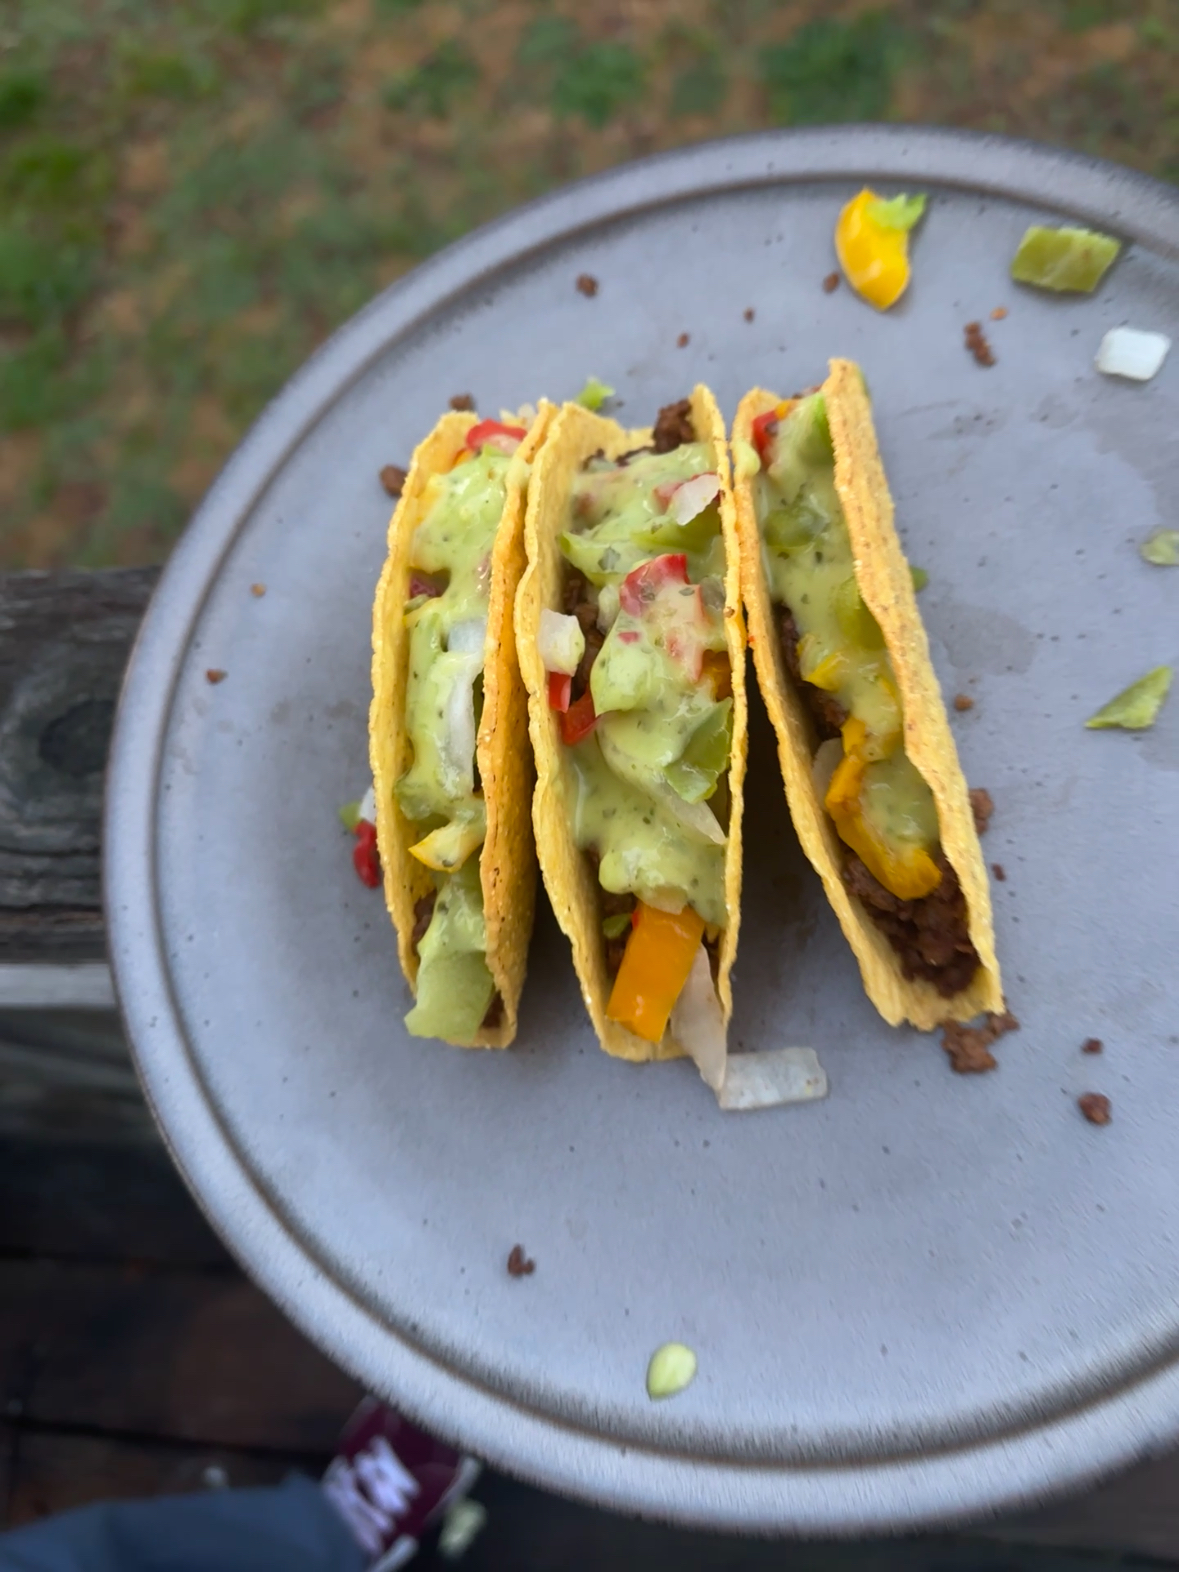
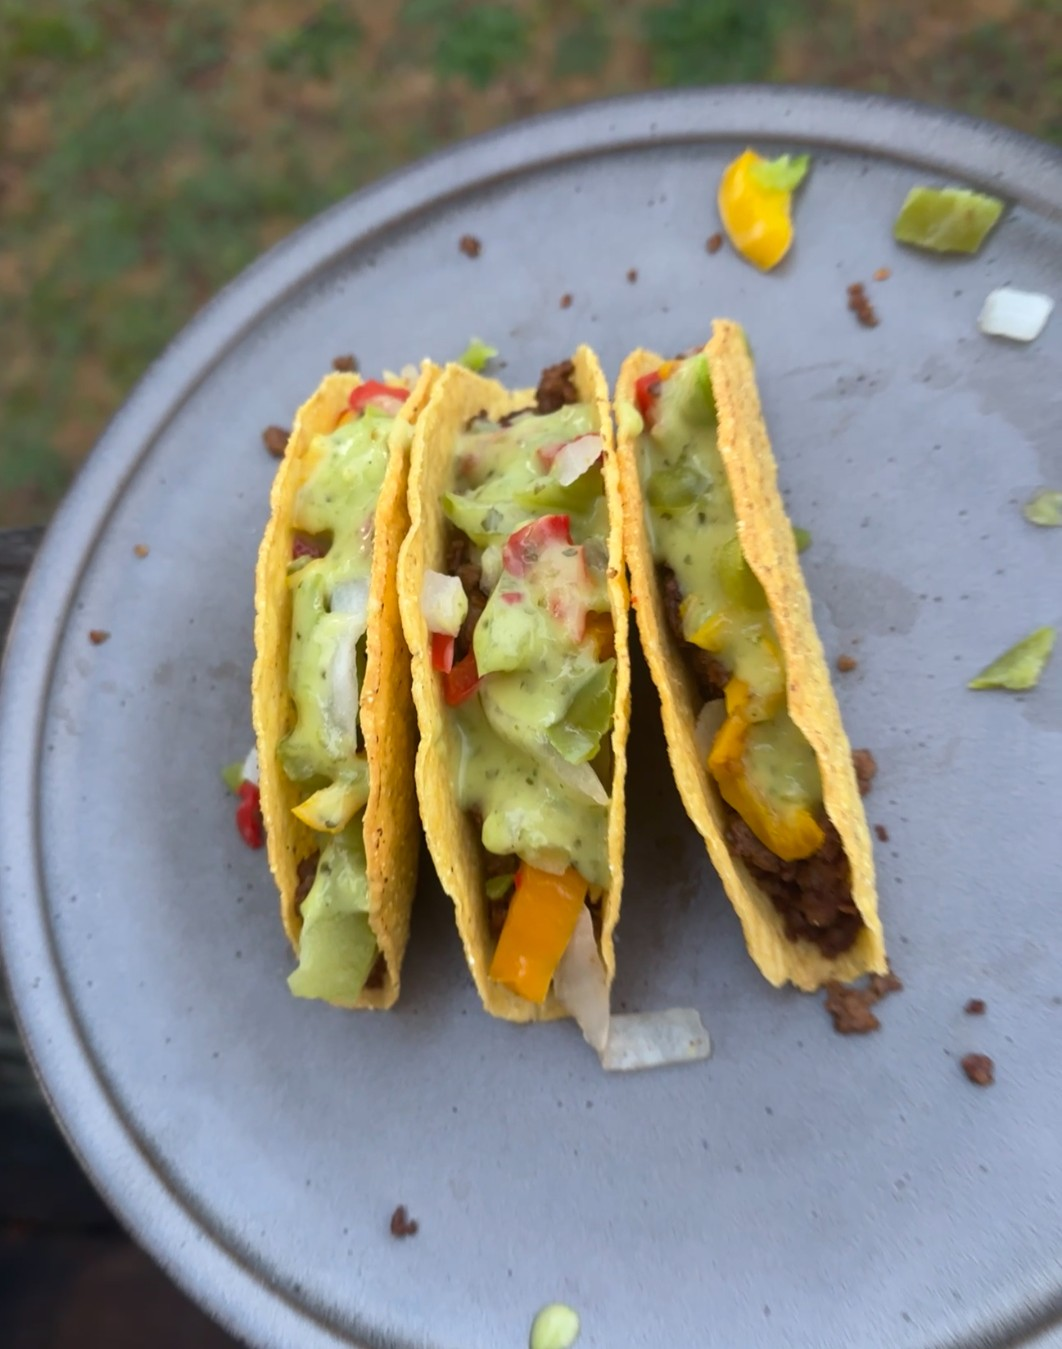
small visual touch-ups and mobile fixes

diff --git a/src/app/page.tsx b/src/app/page.tsx
@@ -50,7 +50,7 @@ export default function Home() {
               height={500}
               className="object-cover w-full h-full"
             />
-            <h1 className="absolute bottom-4 left-4 text-3xl text-green-700 font-semibold bg-white bg-opacity-80 px-2 py-1 rounded">
+            <h1 className="absolute bottom-4 left-4 text-4xl text-green-800 font-semibold bg-white/80 px-2 py-1 rounded">
               Eat Better.
             </h1>
           </div>
@@ -64,7 +64,7 @@ export default function Home() {
               height={500}
               className="object-cover w-full h-full"
             />
-            <h1 className="absolute bottom-4 left-4 text-3xl text-green-700 font-semibold bg-white bg-opacity-80 px-2 py-1 rounded">
+            <h1 className="absolute bottom-4 left-4 text-4xl text-green-800 font-semibold bg-white/80 px-2 py-1 rounded">
               Feel Better.
             </h1>
           </div>
@@ -78,7 +78,7 @@ export default function Home() {
               height={500}
               className="object-cover w-full h-full"
             />
-            <h1 className="absolute bottom-4 left-4 text-3xl text-green-700 font-semibold bg-white bg-opacity-80 px-2 py-1 rounded">
+            <h1 className="absolute bottom-4 left-4 text-4xl text-green-800 font-semibold bg-white/80 px-2 py-1 rounded">
               Thrive.
             </h1>
           </div>
@@ -86,7 +86,7 @@ export default function Home() {
       </div>
 
       
-      <section data-aos="fade-up" className="p-20 pb-0 pt-0 justify-center items-center z-10 flex flex-col space-x-2 w-full">
+      <section data-aos="zoom-in-up" className="p-20 pb-0 pt-0 justify-center items-center z-10 flex flex-col space-x-2 w-full">
         
         <div className="flex flex-col md:flex-row gap-6 items-center p-10 pt-0">
           <Image height="400" width="300" src="/images/kayla-headshot-unedited-shorter.jpg" alt="picture of Kayla" className="w-64 md:w-80 object-cover rounded h-auto"></Image>
@@ -112,37 +112,46 @@ export default function Home() {
       <section data-aos="fade-up" id="about" className="p-20 justify-center items-center z-10 text-black flex flex-col space-x-2 w-full bg-white">
         
         <div className="flex flex-col md:flex-row gap-10">
-        <div className="hidden grid grid-cols-3 items-center h-20 mt-5 w-80 max-w-7xl mx-auto">
-          <div className="relative flex justify-center h-20 w-auto">
-          <Image
-          src="/images/minglewood.jpg"
-          alt="Minglewood Logo"
-          fill
-          className="object-contain"
-          />
-          </div>
-          <div className="flex justify-center items-center h-full w-auto">
-          <Image
-          src="/images/x-1.png"
-          alt="X symbol"
-          width={28}
-          height={28}
-          className="h-7 w-auto"
-          />
-          </div>
-          <div className="relative flex justify-center h-20 w-auto">
-          <Image
-          src="/images/logo-black.png"
-          alt="Vegan Thrive logo"
-          fill
-          className="object-contain"
-          />
+        
+        <div className="flex w-full max-w-7xl mx-auto items-stretch flex-col md:flex-row">
+        <div data-aos="fade-up" data-aos-delay="100" className="p-6 md:w-180 flex-1 me-5 flex flex-col">
+        <div className="flex flex-row items-center w-full max-w-7xl mx-auto mb-5">
+          <h1 className="text-3xl border-b-3 border-green-900 border-radius-5 pb-1">
+            Nourish to Thrive
+          </h1>
+          <div className="hidden flex space-x-2 items-center h-20 ms-10">
+            <div className="relative flex justify-center w-auto h-16">
+              <Image
+                src="/images/minglewood.jpg"
+                alt="Minglewood Logo"
+                width={120}
+                height={60}
+                className="object-contain"
+              />
+            </div>
+            <div className="flex justify-center items-center h-full w-auto">
+              <Image
+                src="/images/x-1.png"
+                alt="X symbol"
+                width={28}
+                height={28}
+                className="h-5 w-auto"
+              />
+            </div>
+            <div className="relative flex justify-center w-auto h-16">
+              <Image
+                src="/images/logo-black.png"
+                alt="Vegan Thrive logo"
+                width={60}
+                height={60}
+                className="object-contain"
+              />
+            </div>
           </div>
         </div>
-        <div className="flex w-full max-w-7xl mx-auto">
-        <div data-aos="fade-up" data-aos-delay="100" className="p-6 w-180">
-          <h1 className="text-3xl border-b-3 border-green-900 border-radius-5 w-70 pb-1 mb-5">Nourish to Thrive</h1>
-            <p className="w-170 indent-8">Nourish to Thrive is a 4-week nutrition and wellness coaching program for vegans who want to eat better, feel better, and thrive. In the program, you will learn how to properly fuel and nourish your body and mind in a way that is simple and sustainable. You&rsquo;ll get 1:1 nutrition and wellness support from a certified nutrition coach and be a part of our supportive vegan community.</p>
+
+
+            <p className="indent-8">Nourish to Thrive is a 4-week nutrition and wellness coaching program for vegans who want to eat better, feel better, and thrive. In the program, you will learn how to properly fuel and nourish your body and mind in a way that is simple and sustainable. You&rsquo;ll get 1:1 nutrition and wellness support from a certified nutrition coach and be a part of our supportive vegan community.</p>
             
             <p data-aos="fade-up" data-aos-delay="100" className="mt-6">Nourish to Thrive is for you if you:</p>
             <ul data-aos="fade-up" data-aos-delay="100" className="list-disc pl-10 space-y-1 m-3">
@@ -173,13 +182,15 @@ export default function Home() {
               <a href="https://docs.google.com/forms/d/e/1FAIpQLSd-nv6yCFG0wFkOG7H-aTOyBsOG8z0XnAxCBGoqqoSwh6wS8A/viewform" className="cursor-pointer px-6 py-2 bg-green-600 text-white rounded-lg hover:bg-green-700 transition">Sign Up Now!</a>
             </div>
         </div>
-        <div className="w-64 min-h-screen flex flex-col flex-shrink-0">
+        <div className="sm:w-auto flex-shrink-0">
+          <div className="grid grid-cols-3 gap-3 md:flex md:flex-col md:w-60">
           <Image
-            src="/images/minglewood.jpg"
+            src="/images/tacos.jpg"
             alt="Image 1"
             width={300}
             height={200}
             className="rounded shadow-md w-full h-auto object-cover"
+            data-aos="fade-up"
           />
           <Image
             src="/images/kayak.jpg"
@@ -187,6 +198,7 @@ export default function Home() {
             width={300}
             height={200}
             className="rounded shadow-md w-full h-auto object-cover"
+            data-aos="fade-up"
           />
           <Image
             src="/images/smoothie-bowl.jpeg"
@@ -194,14 +206,9 @@ export default function Home() {
             width={300}
             height={200}
             className="rounded shadow-md w-full h-auto object-cover"
+            data-aos="fade-up"
           />
-          <Image
-            src="/images/tacos.jpg"
-            alt="Image 4"
-            width={300}
-            height={200}
-            className="rounded shadow-md w-full h-auto object-cover"
-          />
+          </div>
       </div>
       </div>
       </div>
